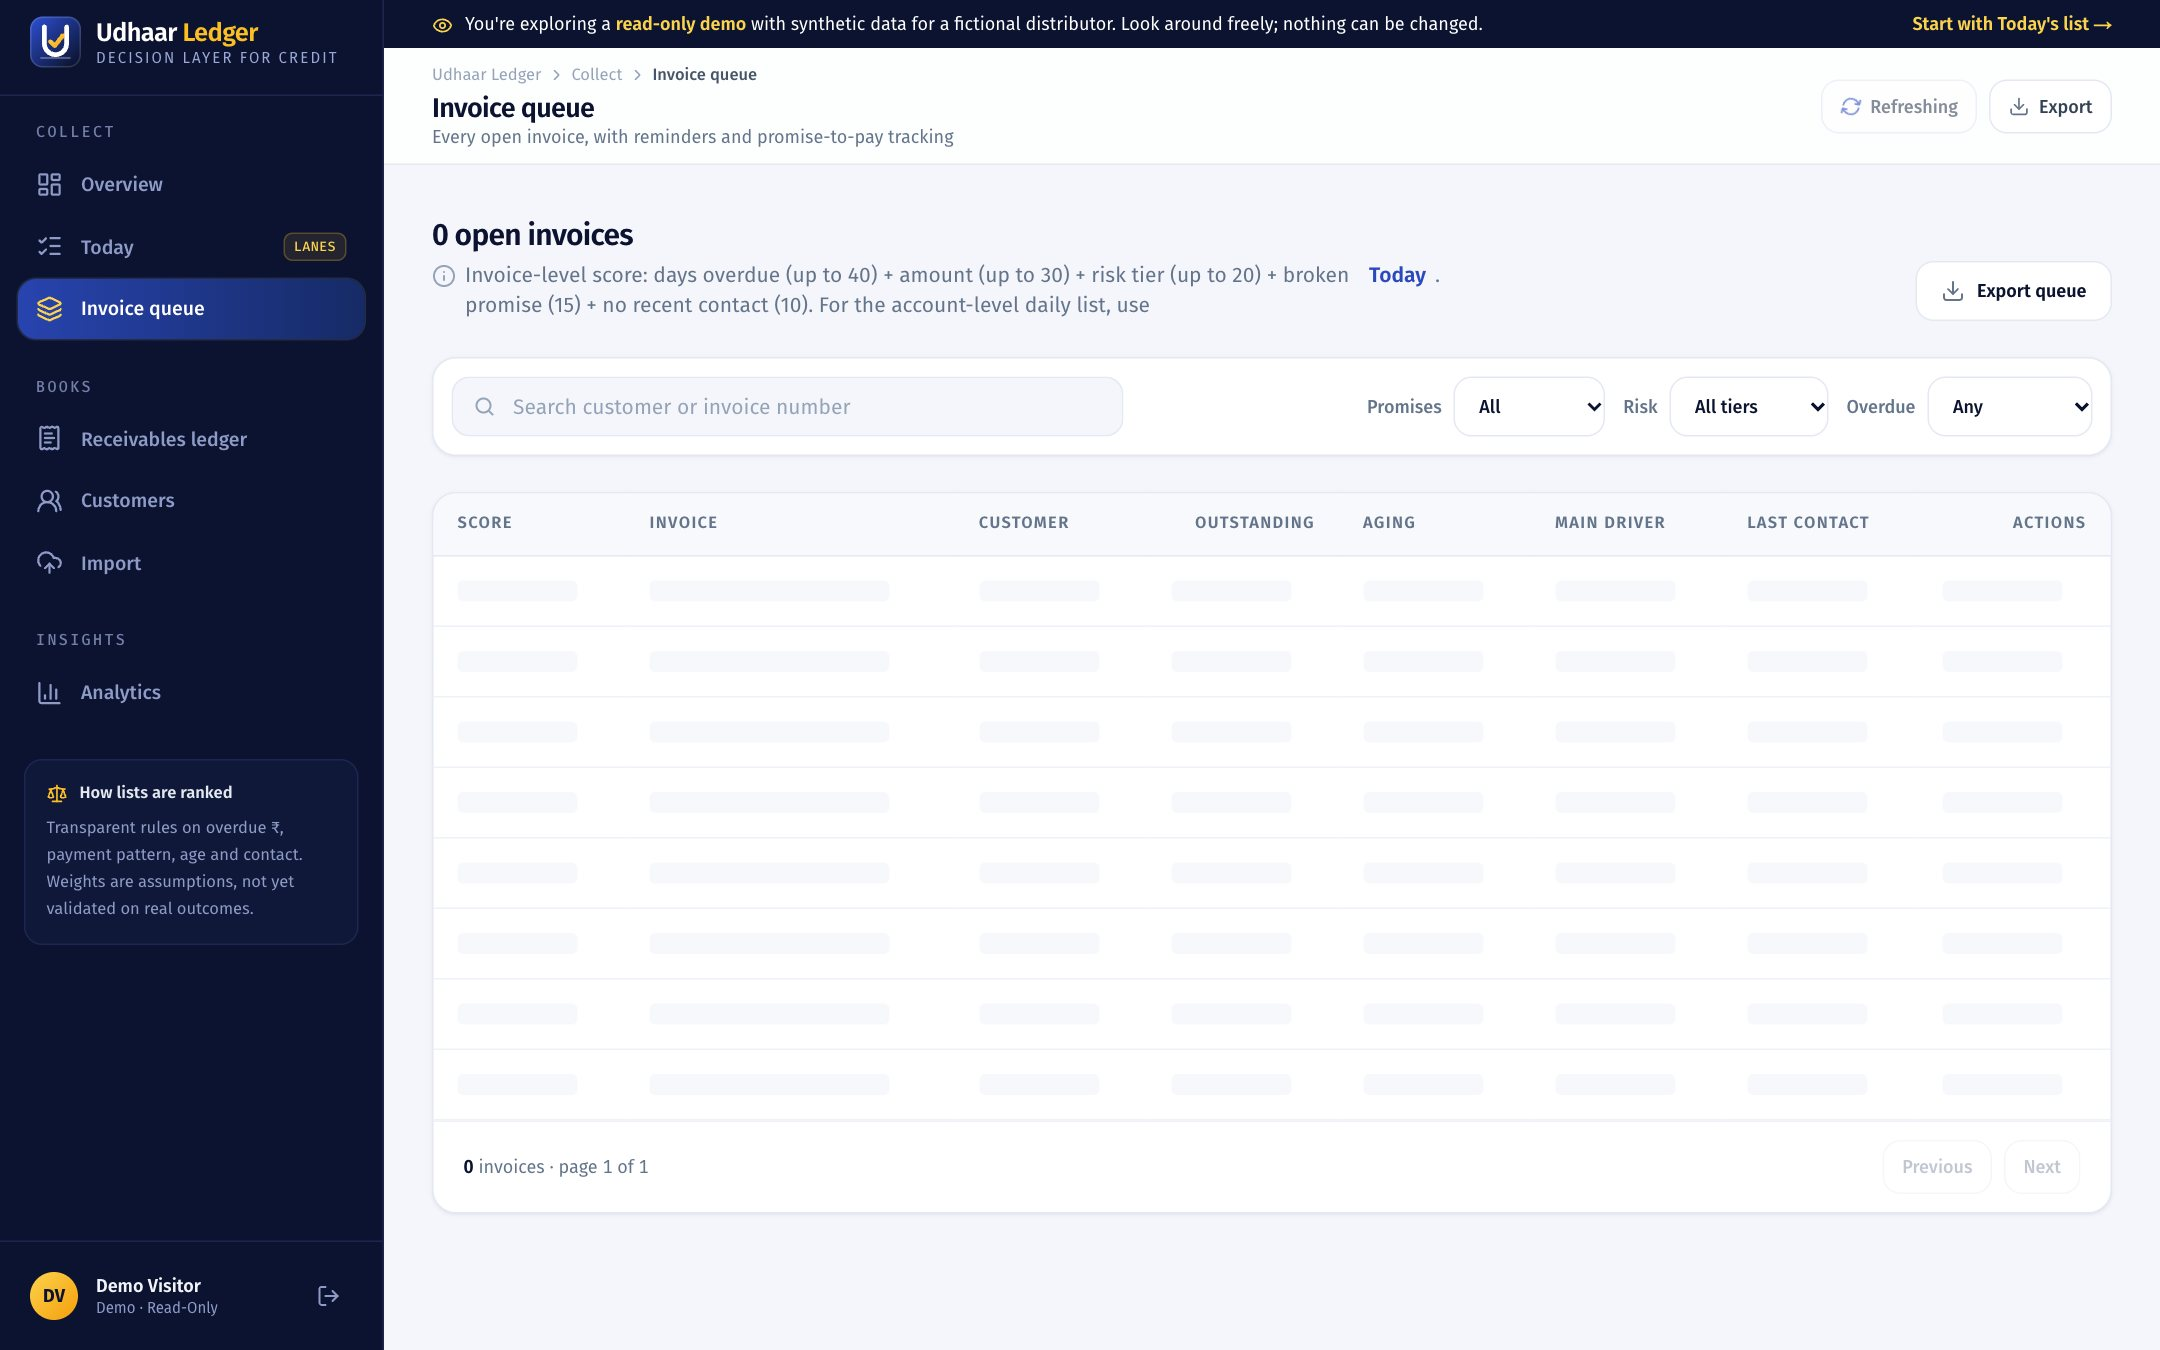
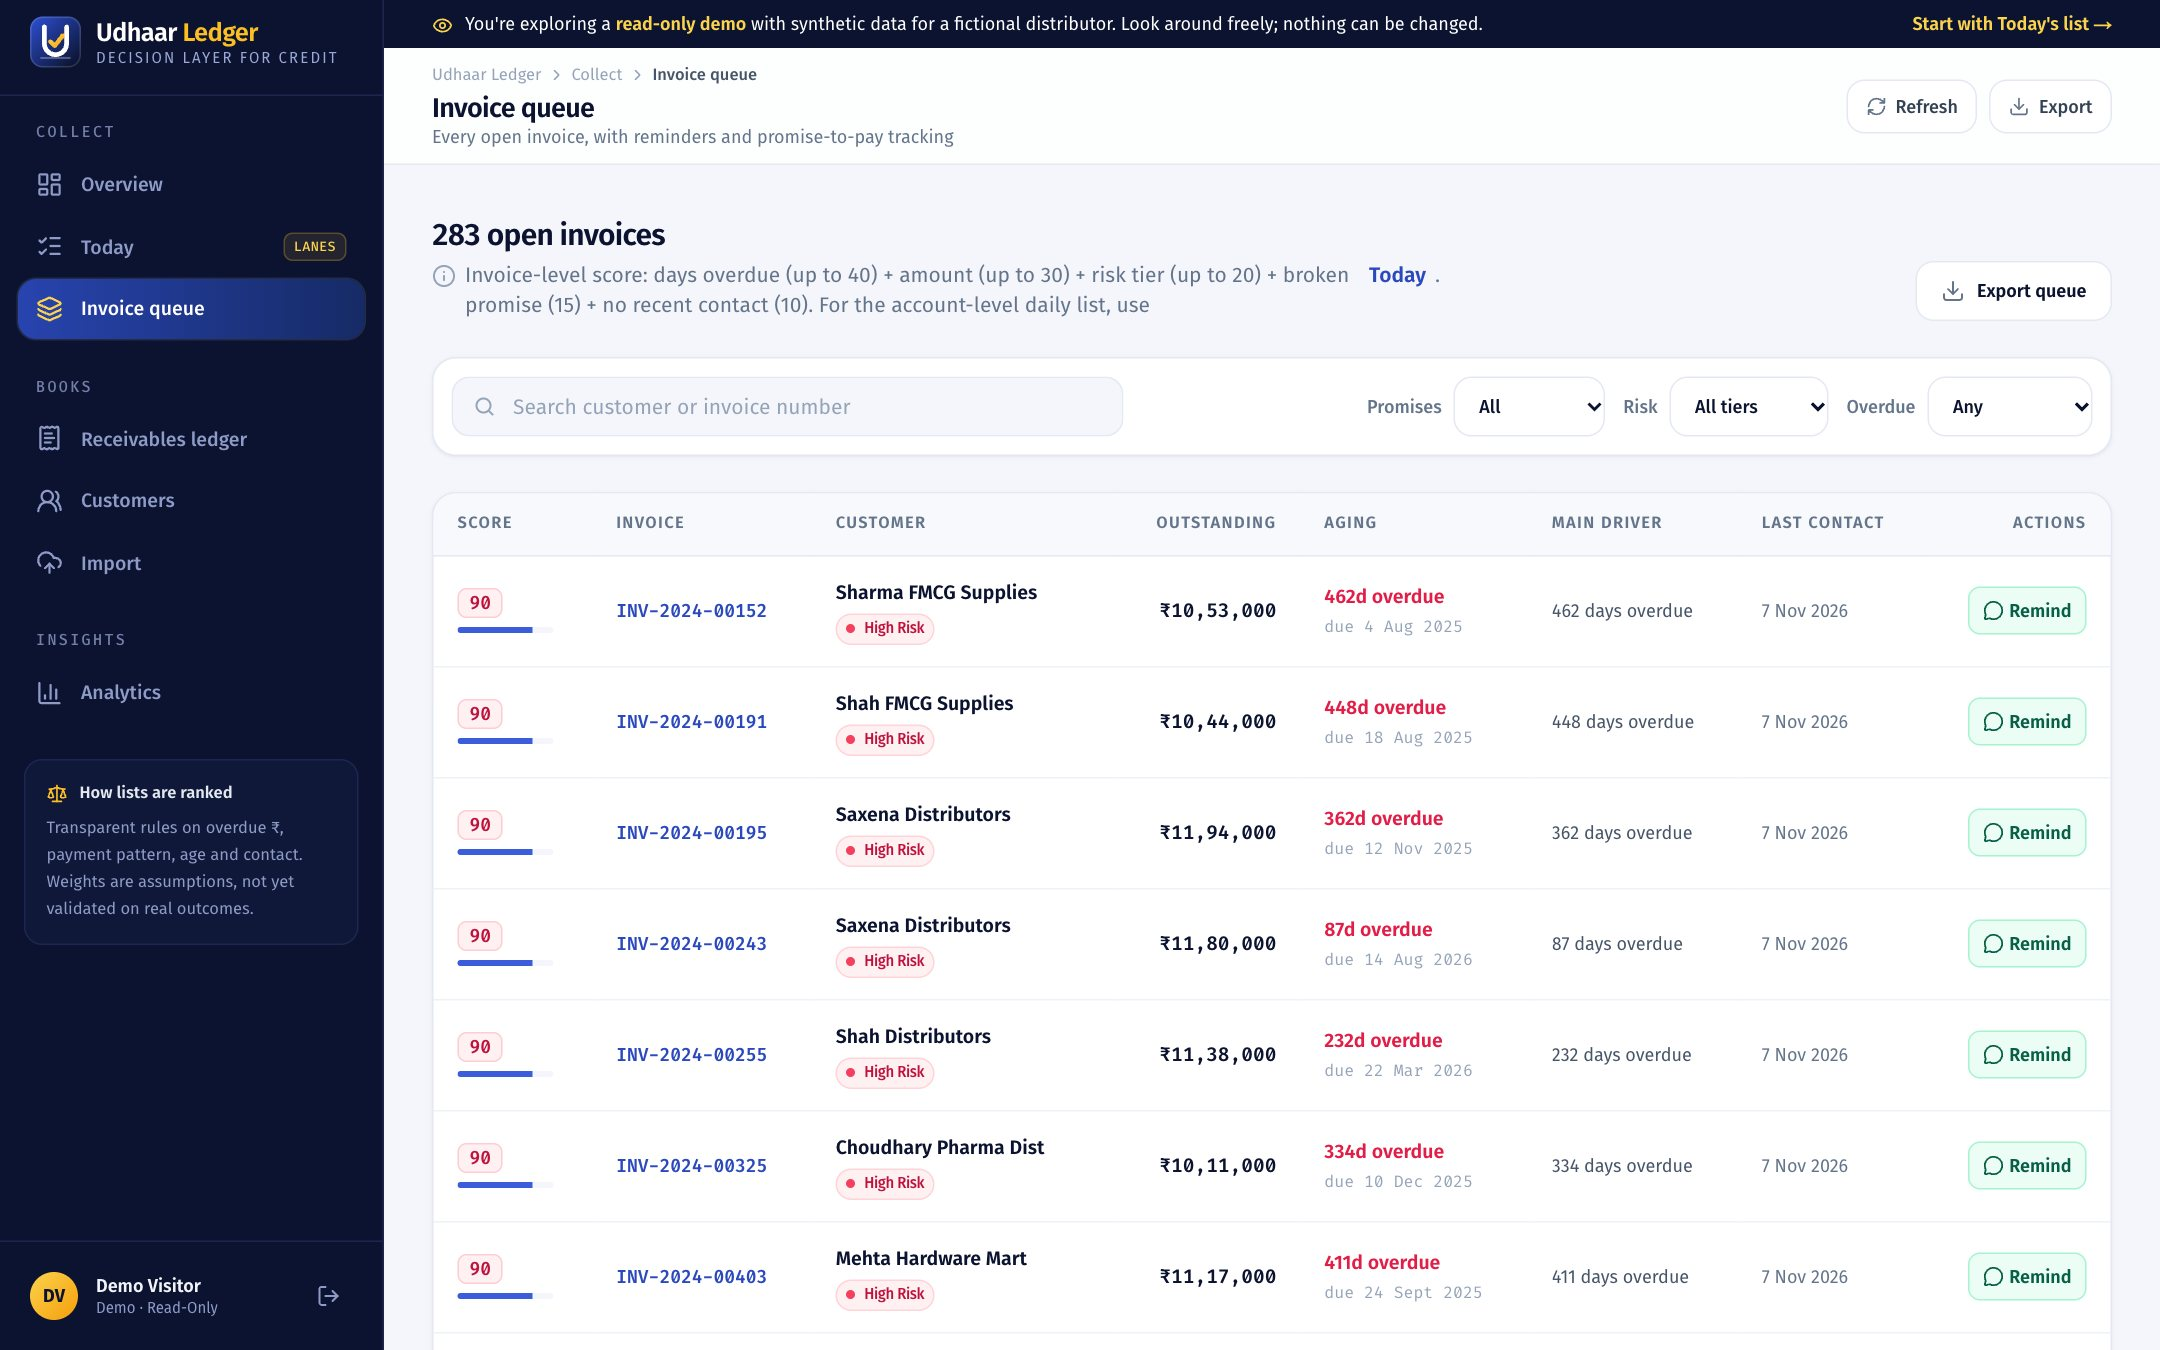
Fix invoice queue description wrapping; refresh queue screenshot

diff --git a/frontend/app/queue/page.tsx b/frontend/app/queue/page.tsx
@@ -121,12 +121,14 @@ export default function QueuePage() {
             </h2>
             <p className="mt-1 text-sm text-slate-500 flex items-start gap-1.5 max-w-2xl">
               <Info className="w-4 h-4 mt-0.5 text-slate-400 flex-shrink-0" />
-              Invoice-level score: days overdue (up to 40) + amount (up to 30) + risk tier (up to 20) + broken promise (15) + no recent
-              contact (10). For the account-level daily list, use{" "}
-              <Link href="/today" className="font-semibold text-brand-600 hover:underline">
-                Today
-              </Link>
-              .
+              <span>
+                Invoice-level score: days overdue (up to 40) + amount (up to 30) + risk tier (up to 20) + broken promise (15) + no recent
+                contact (10). For the account-level daily list, use{" "}
+                <Link href="/today" className="font-semibold text-brand-600 hover:underline">
+                  Today
+                </Link>
+                .
+              </span>
             </p>
           </div>
           <button
